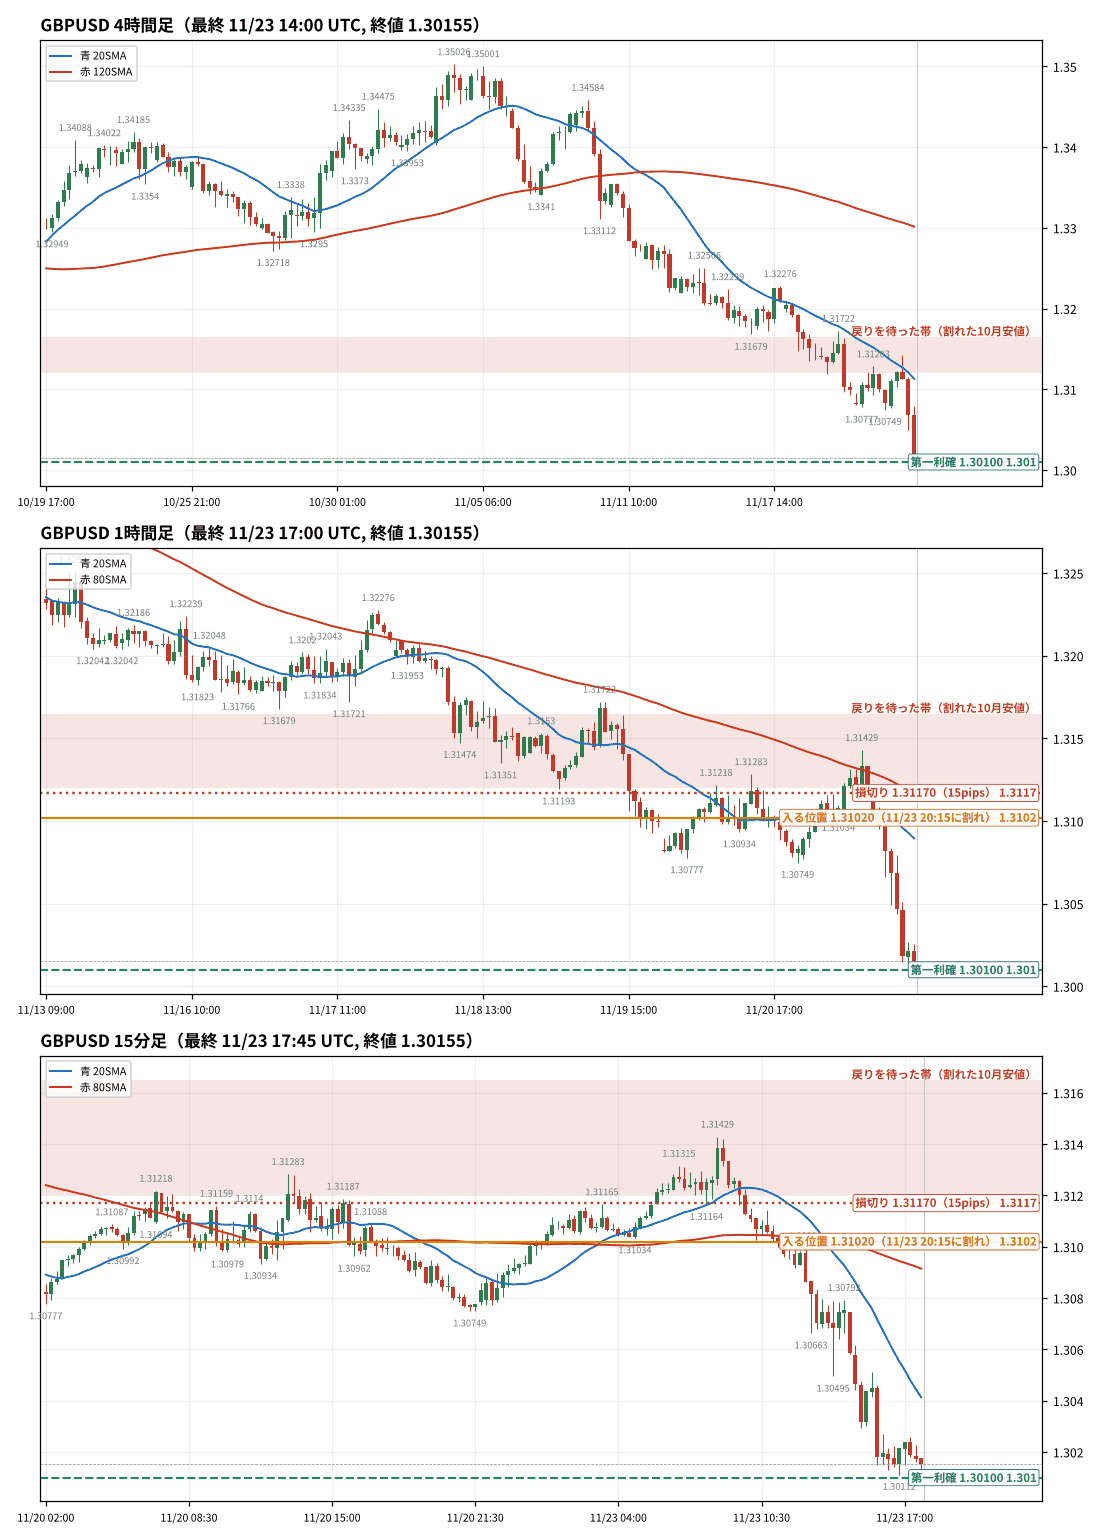
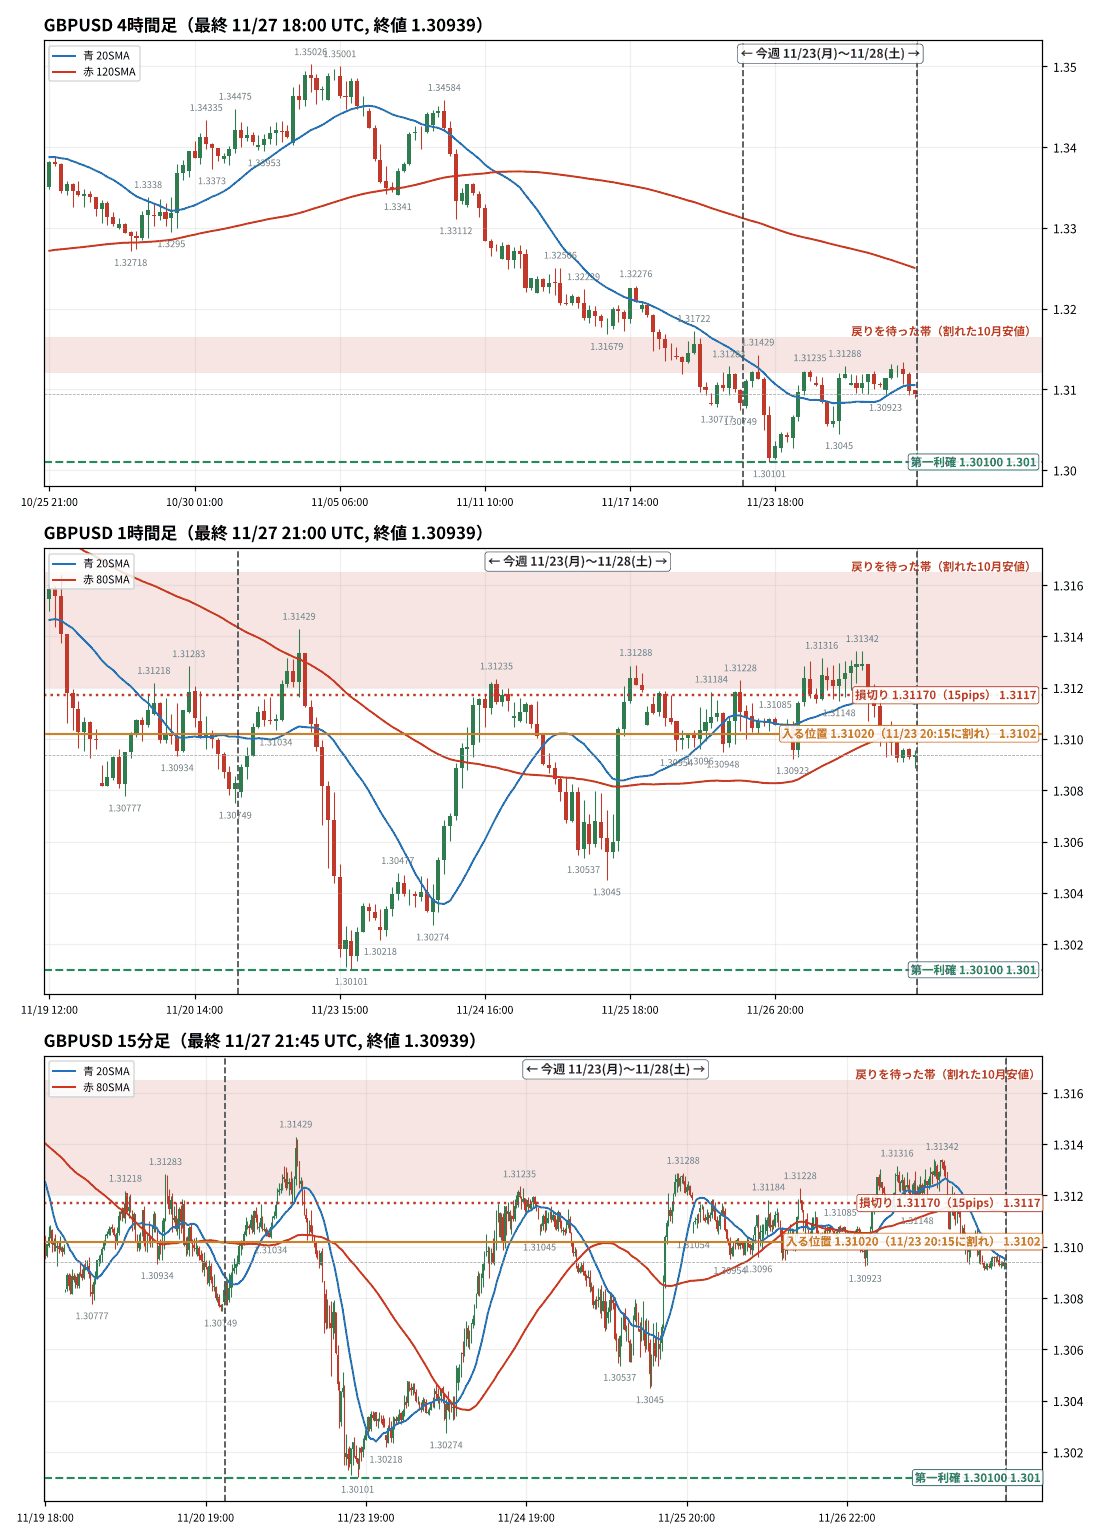
週間振り返り 2026-11-28：チャートを週の終わりまで描き、週の始まり・終わりに縦線を追加
Claude-Session: https://claude.ai/code/session_01AxVeFqq7eT1F6gst1suiSg

diff --git a/_posts/2026-11-28-weekly-review.md b/_posts/2026-11-28-weekly-review.md
@@ -25,7 +25,7 @@ description: "先週から、ルールどおりの形がそろったら逆指値
 - 金曜はクロス円が戻し、AUDJPYは待っていた売りの形が崩れた。
 
 ## 入れたはずの場面
-チャートは上から4H足・1H足・15分足。チャート内の時刻はUTC（日本時間から9時間引いた時刻）で、日本時間の20:15はチャートでは11:15になる。
+チャートは上から4H足・1H足・15分足で、月曜の朝から土曜の朝（取引終了）までの1週間が入っている。2本の破線の間が今週（11/23（月）7:00〜11/28（土）7:00）。チャート内の時刻はUTC（日本時間から9時間引いた時刻）で、日本時間の20:15はチャートでは11:15になる。
 
 ### GBPUSD（売り）
 ![GBPUSDのチャート]({{ site.baseurl }}/assets/img/2026-11-28_GBPUSD.png)
